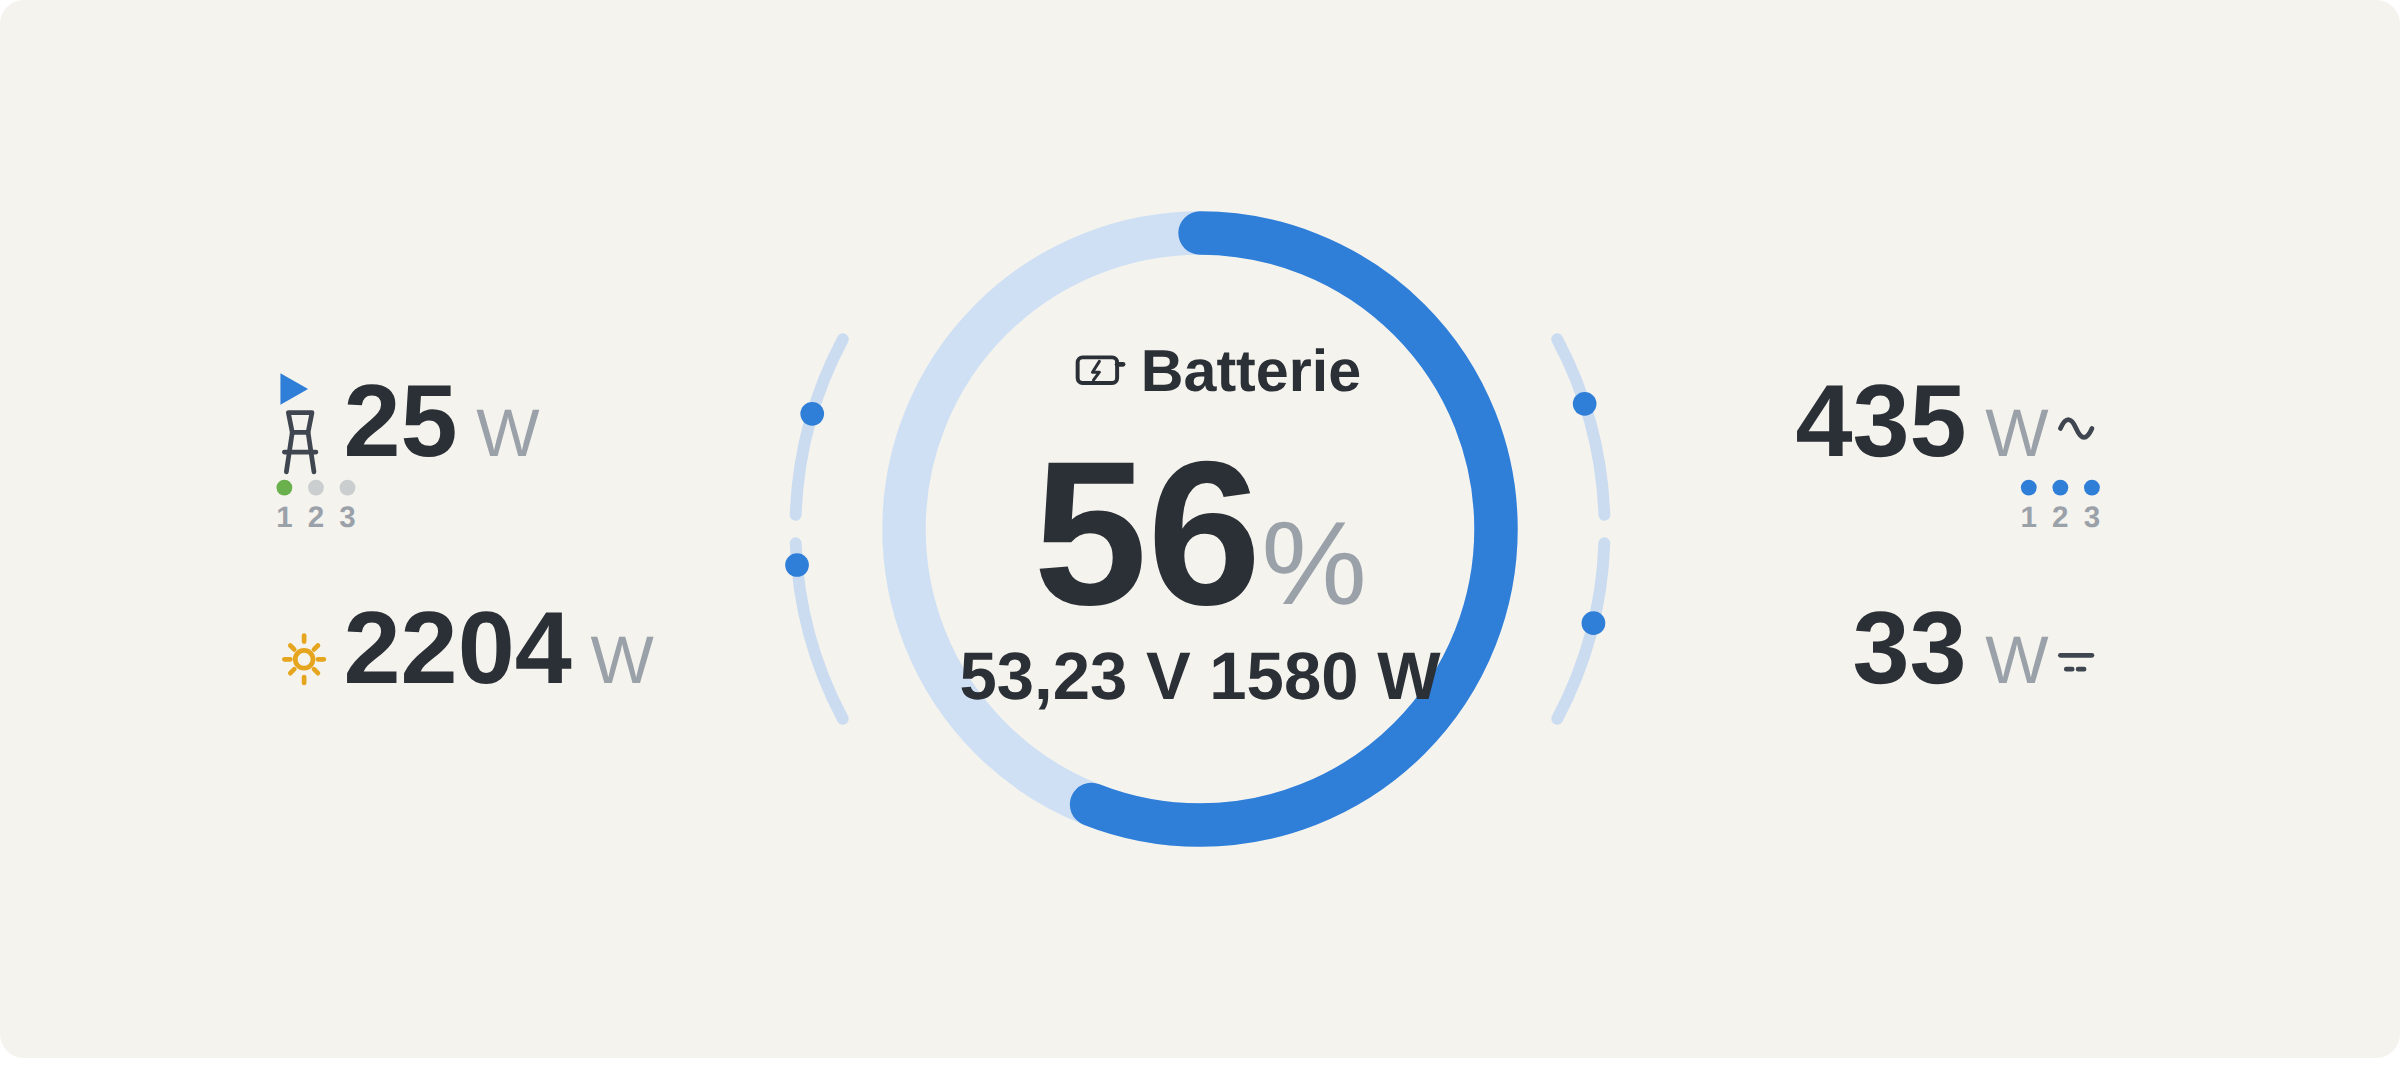
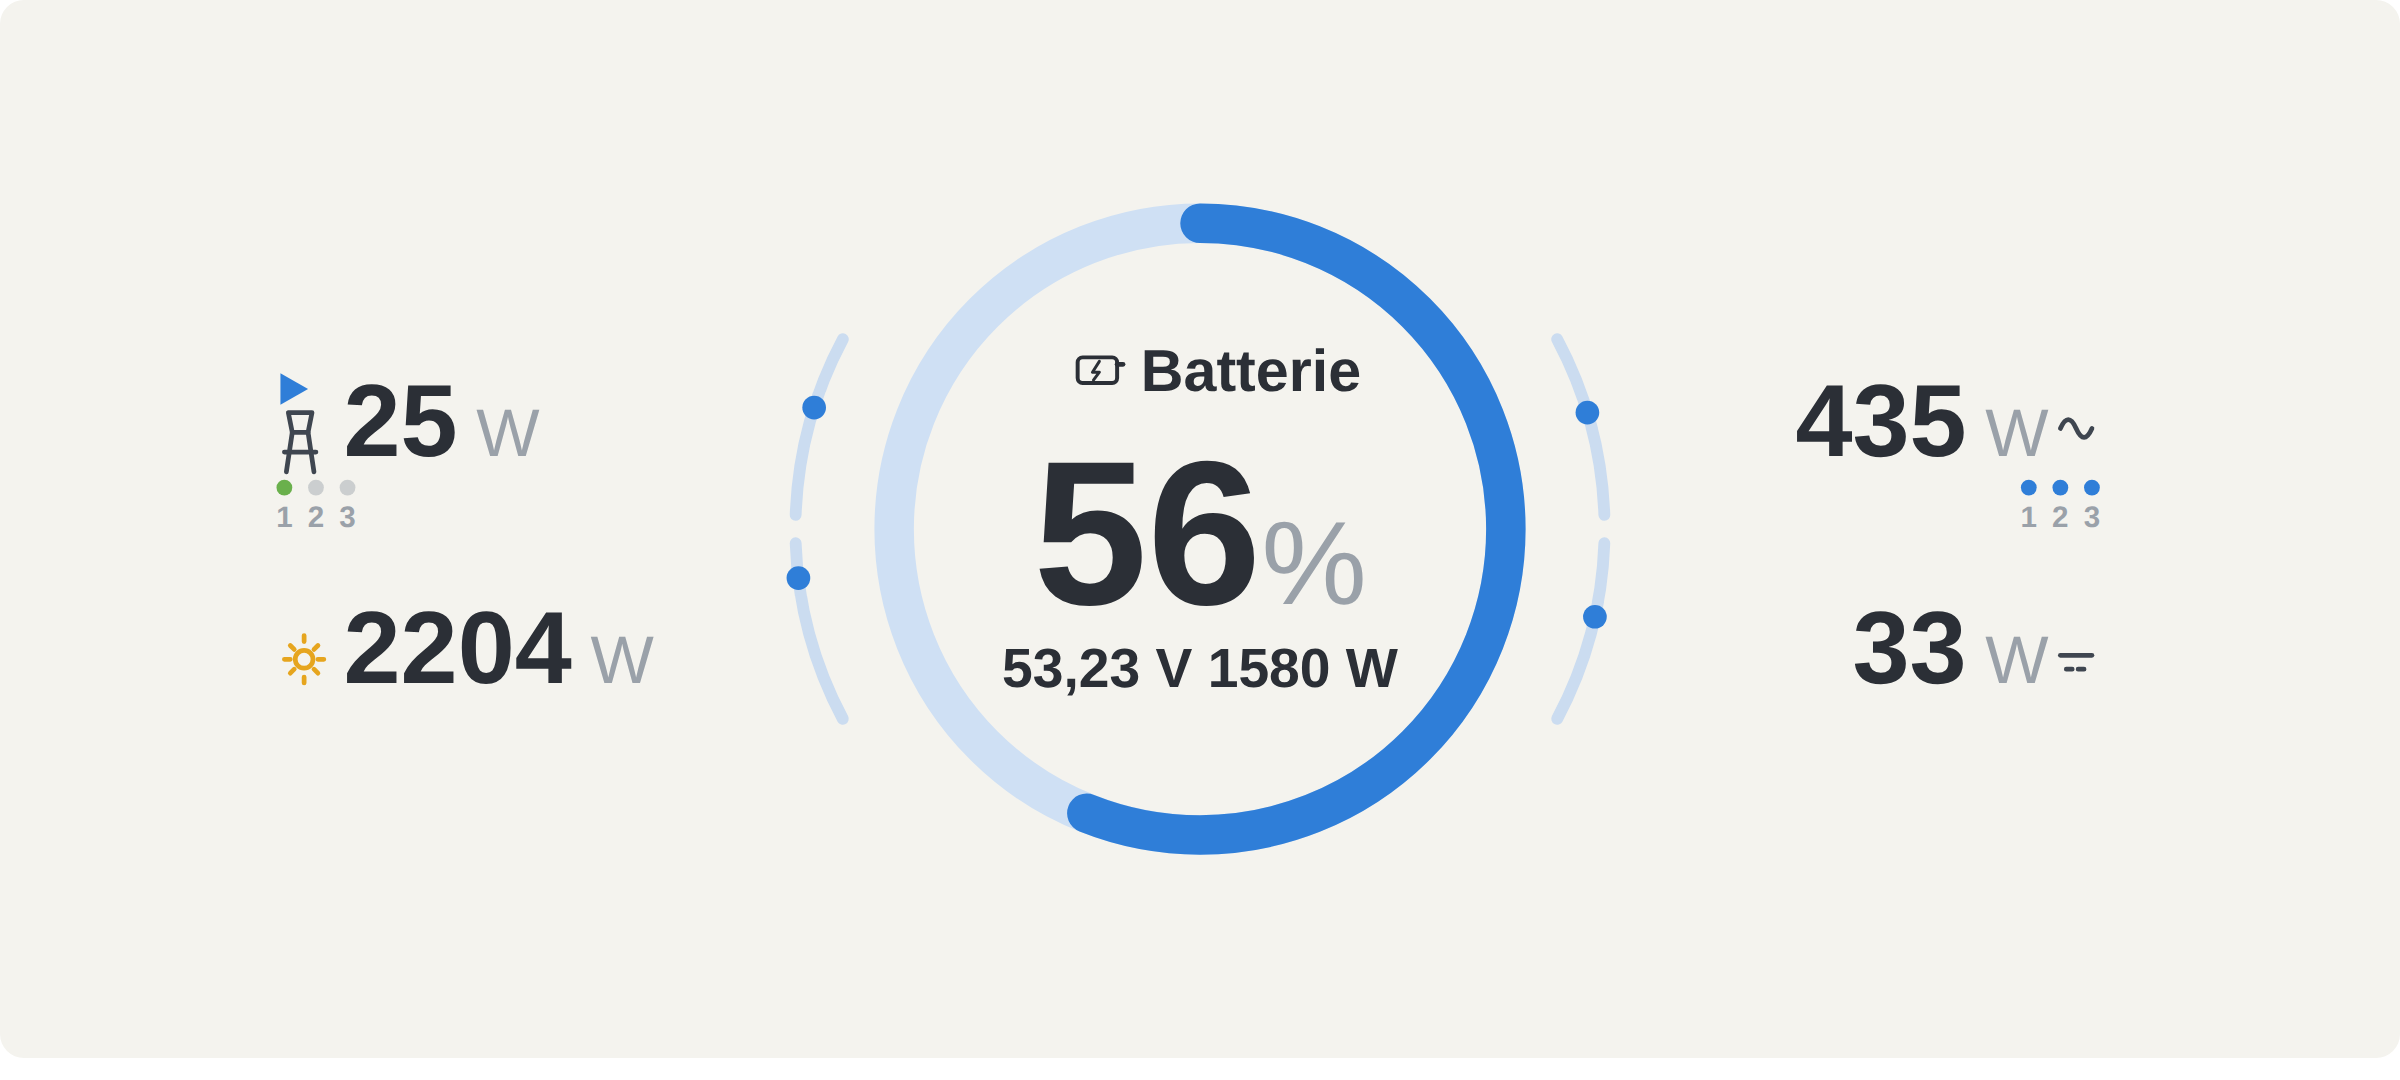
Fix center battery line overlapping the ring
The "voltage / power" line under the SOC value could touch the ring at
its narrower lower inner edge. Enlarge the inner area (ring r 155, thinner
stroke) and shrink the line so it stays clear even for 4-digit/negative
values. Regenerate previews.

Claude-Session: https://claude.ai/code/session_01AEecf3Q7fefkV69du2b9x2

Changed region(s): [[0.3125, 0.1833, 0.6562, 0.7944], [0.6562, 0.3667, 0.6875, 0.3972], [0.3125, 0.3667, 0.3438, 0.3972]]

diff --git a/VictronVRMEnergyMonitor/module.html b/VictronVRMEnergyMonitor/module.html
@@ -55,10 +55,10 @@
         <g id="vrmArcs"></g>
 
         <!-- SOC-Ring -->
-        <circle cx="600" cy="260" r="150" fill="none" stroke="var(--track)" stroke-width="22"/>
-        <circle id="vrmRing" cx="600" cy="260" r="150" fill="none" stroke="var(--ring)"
-                stroke-width="22" stroke-linecap="round"
-                transform="rotate(-90 600 260)" stroke-dasharray="942" stroke-dashoffset="942"/>
+        <circle cx="600" cy="260" r="155" fill="none" stroke="var(--track)" stroke-width="20"/>
+        <circle id="vrmRing" cx="600" cy="260" r="155" fill="none" stroke="var(--ring)"
+                stroke-width="20" stroke-linecap="round"
+                transform="rotate(-90 600 260)" stroke-dasharray="974" stroke-dashoffset="974"/>
 
         <!-- Batterie-Zentrum -->
         <g>
@@ -71,7 +71,7 @@
             <text x="600" y="298" font-size="104" text-anchor="middle">
                 <tspan class="val" id="vrmSoc" font-weight="700">–</tspan><tspan class="unit" font-size="60">%</tspan>
             </text>
-            <text class="val" x="600" y="346" font-size="34" font-weight="500" text-anchor="middle" id="vrmBattSub">– V   – W</text>
+            <text class="val" x="600" y="340" font-size="28" font-weight="500" text-anchor="middle" id="vrmBattSub">– V   – W</text>
         </g>
 
         <!-- Netz (links oben) -->
@@ -113,7 +113,7 @@
 <script>
     (function () {
         var initial = /*__INITIAL_DATA__*/null;
-        var CX = 600, CY = 260, RING = 150, C = 2 * Math.PI * RING;
+        var CX = 600, CY = 260, RING = 155, C = 2 * Math.PI * RING;
         var THR = 3; // W Rauschschwelle
 
         function polar(r, deg) {
@@ -199,7 +199,7 @@
             document.getElementById('vrmSoc').textContent = soc === null ? '–' : Math.round(soc);
             var v = (d.battVoltage === null || d.battVoltage === undefined) ? null : d.battVoltage;
             document.getElementById('vrmBattSub').textContent =
-                (v === null ? '–' : v.toFixed(2).replace('.', ',') + ' V') + '   ' + fmt(batt) + ' W';
+                (v === null ? '–' : v.toFixed(2).replace('.', ',') + ' V') + '  ' + fmt(batt) + ' W';
 
             document.getElementById('vrmGridVal').textContent = fmt(grid);
             document.getElementById('vrmSolarVal').textContent = fmt(pv);
